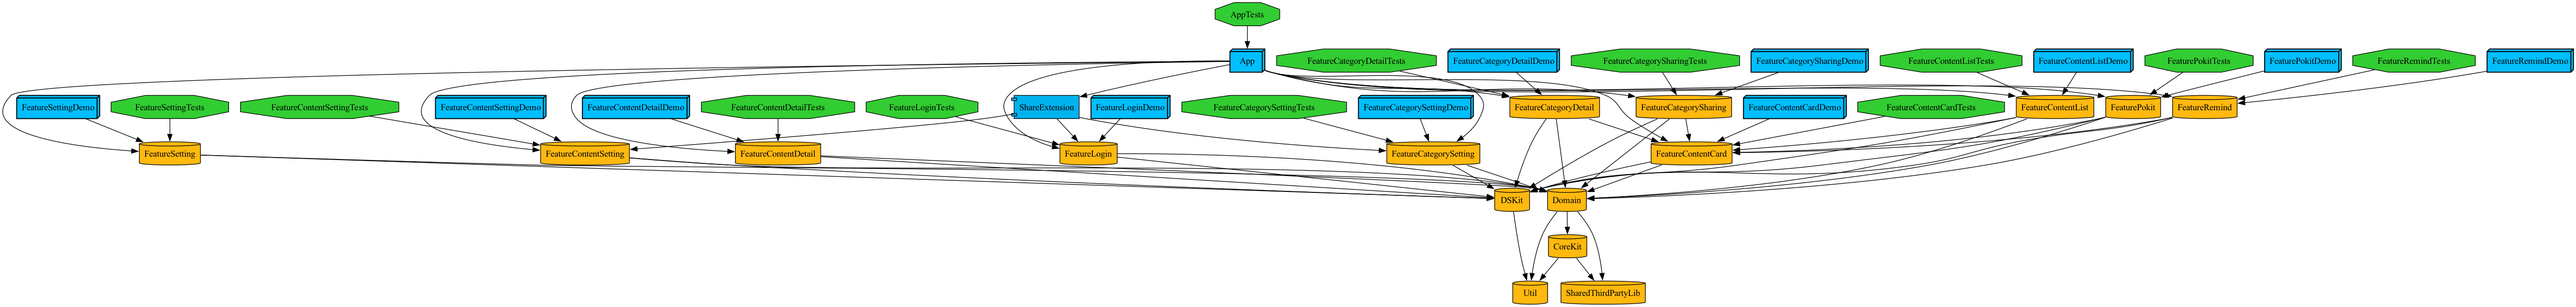
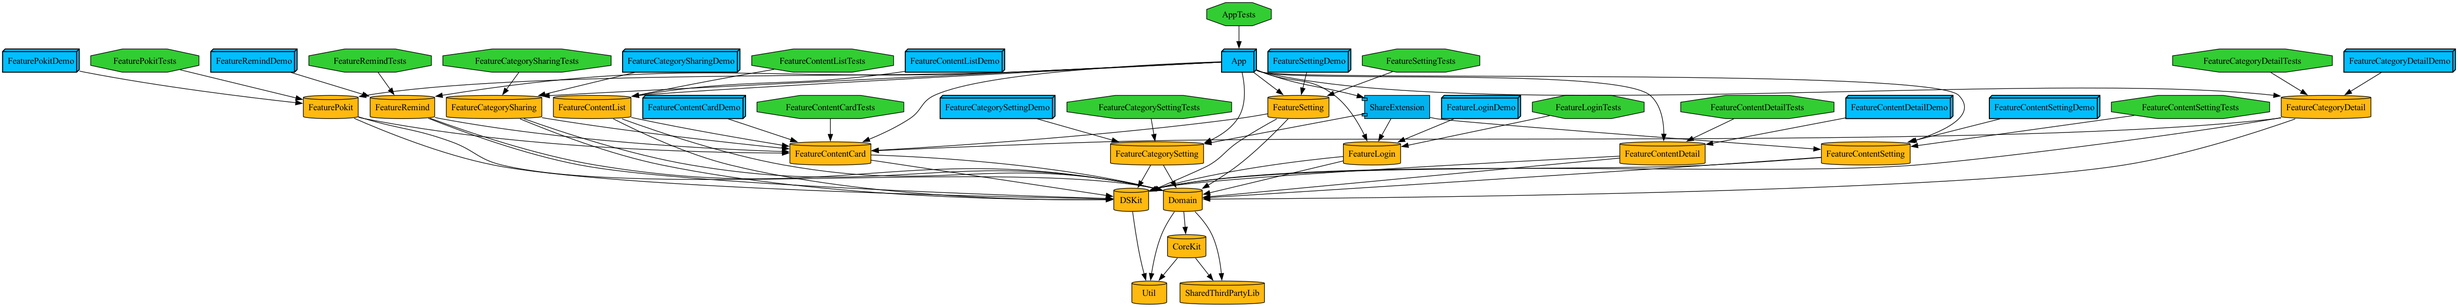
[chore] #152 FeatureSetting에 FeatureContentCard 의존성 연결

diff --git a/Tuist/ProjectDescriptionHelpers/Feature.swift b/Tuist/ProjectDescriptionHelpers/Feature.swift
@@ -78,7 +78,10 @@ public enum Feature: String, CaseIterable {
             return [
                 .project(target: "FeatureContentCard", path: .relativeToRoot("Projects/Feature"))
             ]
-        case .setting: return []
+        case .setting:
+            return [
+                .project(target: "FeatureContentCard", path: .relativeToRoot("Projects/Feature"))
+            ]
         case .contentList:
             return [
                 .project(target: "FeatureContentCard", path: .relativeToRoot("Projects/Feature"))
